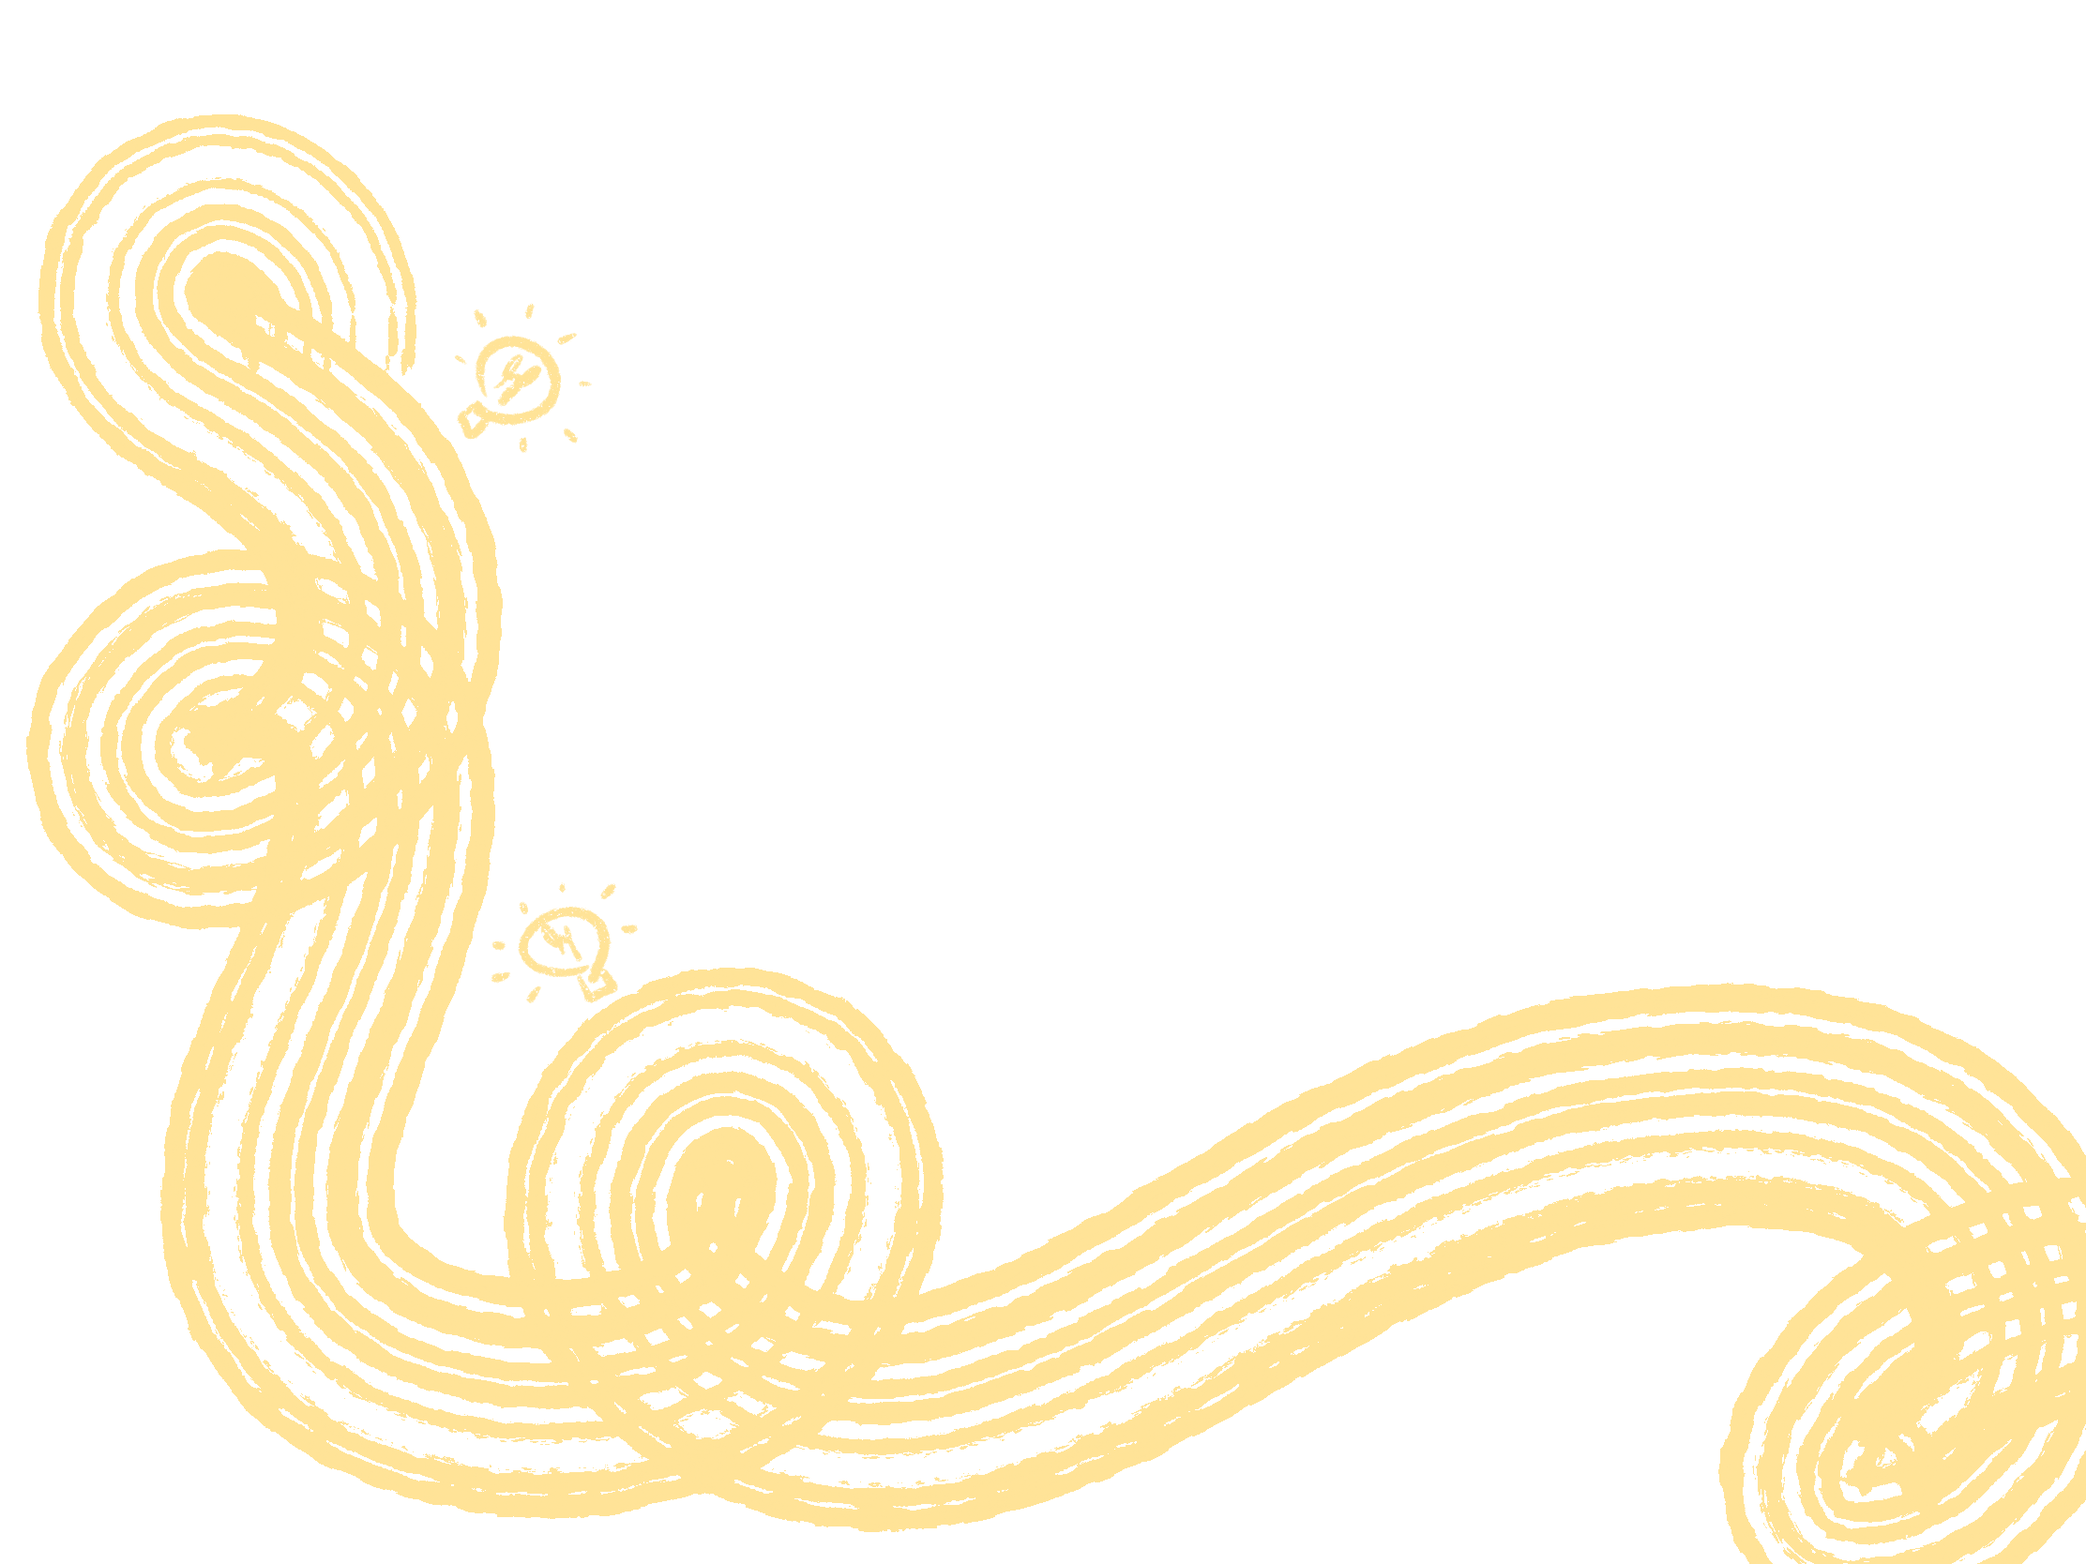
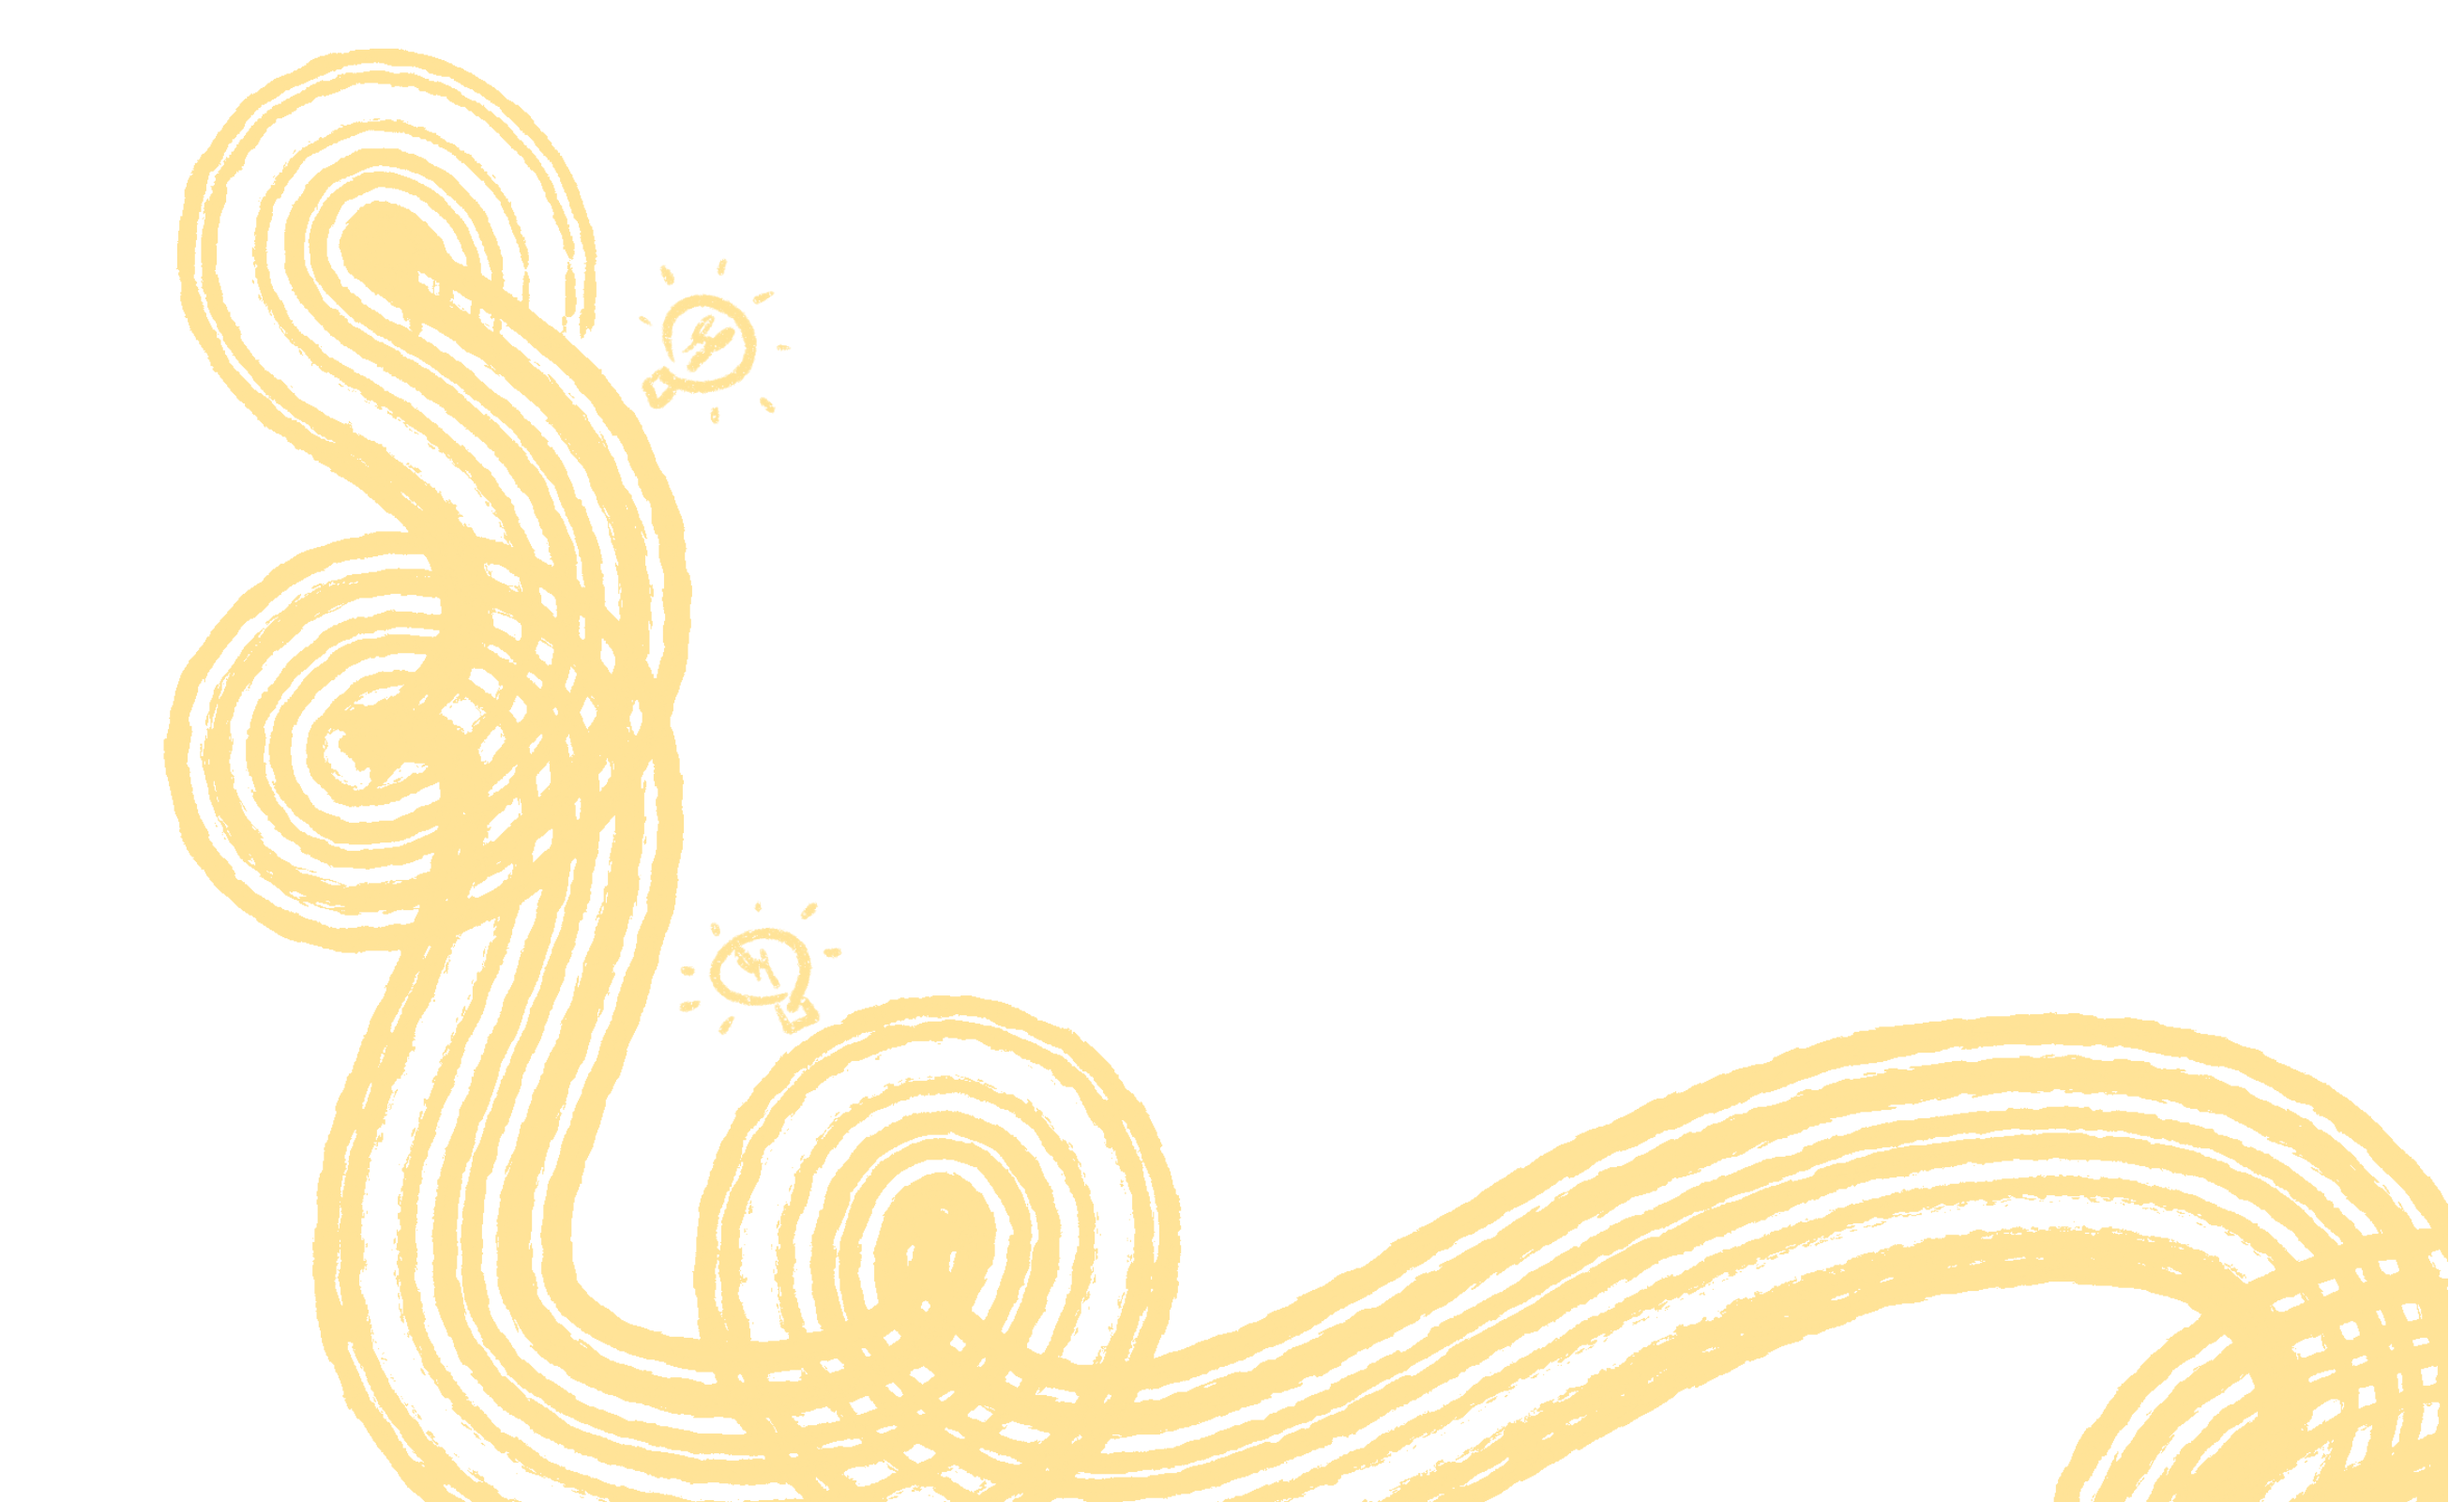
feat(Projectt(Projects): created component, added background, and created first project card(Porto3000)

Changed region(s): [[0.0, 0.0312, 1.0, 1.0]]

diff --git a/src/components/Projects.js b/src/components/Projects.js
@@ -1,10 +1,25 @@
 import React from "react";
-
+import "./Projects.css";
+import P01 from "../images/Porto3000/P01.png"
 const Projects = () => {
     return <>
-    
+        <div className="projectsbg">
+            <div className="projectsContainer">
+                <div className="projectCard">
+                    <h1 className="title">Grace Hopper: Porto3000 </h1>
+                    <div className="innerProjectCard">
+                        <div className="thumbnailContainer">
+                            <img src={P01} className="thumbnail"/>
+                        </div>
+                        <div className="textContainer">
+                            <p className="textDescription">A wine and cheese e-commerce website</p>
+                            <p className="projectStack"><b>Stack: </b> Javasript, HTML5, CSS3, React, Node.JS, Express, PostgreSQL </p>
+                        </div>
+                    </div>
+                </div>
+            </div>
+        </div>
     </>
-
 }
 
 export default Projects;

diff --git a/src/components/Projects.css b/src/components/Projects.css
@@ -1,0 +1,27 @@
+.projectsbg {
+    background: url("../images/Ideas.png");
+    background-size: 100vw 100vh;
+    position: absolute;
+    top: 3rem;
+    bottom: 0;
+    left: 0;
+    right: 0;
+}
+.projectsContainer {
+    display: flex;
+    justify-content: center;
+    margin-top: 3rem;
+}
+.innerProjectCard {
+    display: flex;
+}
+.projectCard {
+    display: flex;
+    flex-direction: column;
+    background-color: rgba(179, 200, 254, 0.8);
+    width: 60vw;
+}
+
+.thumbnail {
+    width: 20vw;
+}
